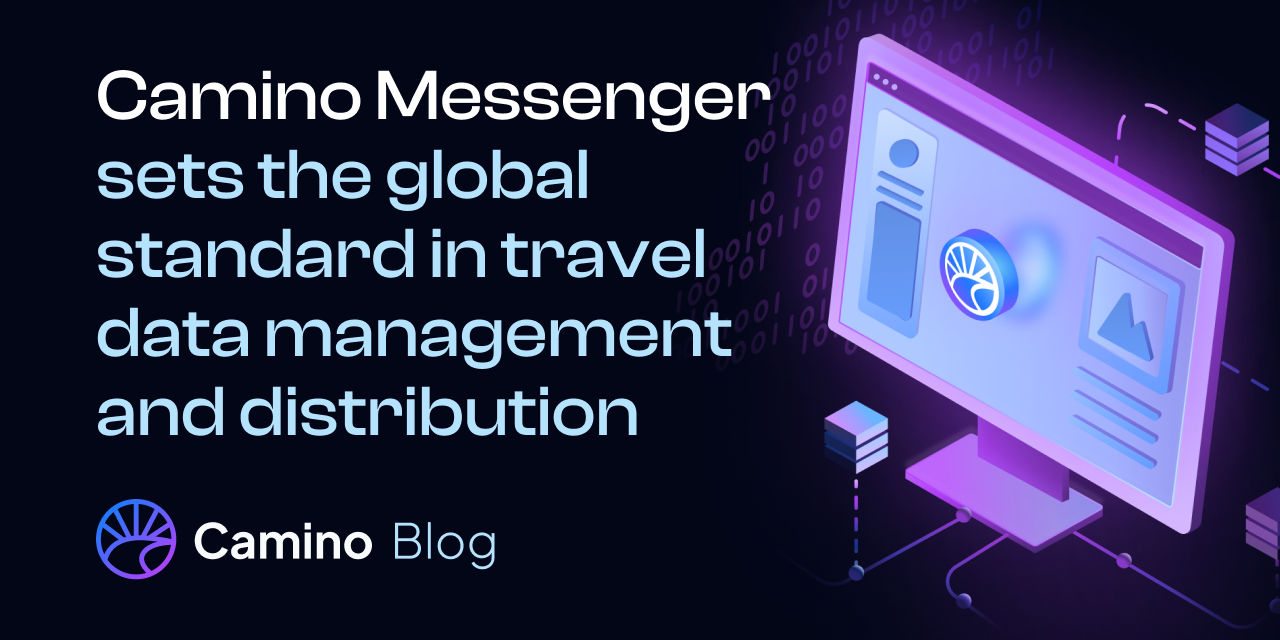
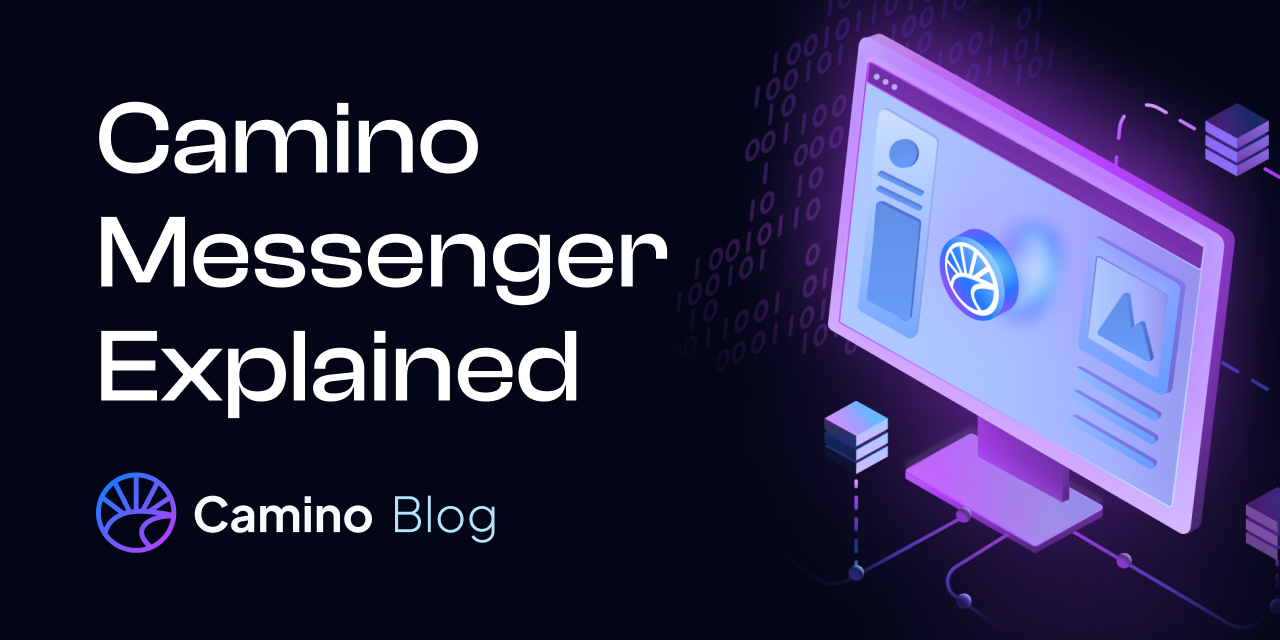
Update for messenger blogpost

Changed region(s): [[0.0625, 0.0938, 0.625, 0.6875], [0.0625, 0.7188, 0.4062, 0.9062]]

diff --git a/src/posts/camino-messenger-sets-the-global-standard-in-travel-data-management-and-distribution.html b/src/posts/camino-messenger-sets-the-global-standard-in-travel-data-management-and-distribution.html
@@ -1,6 +1,6 @@
 ---
-title:          Camino Messenger sets the global standard in travel data management and distribution
-description:    This article is tailored for travel-related companies seeking to improve their travel data management and exchange through innovative digital technologies.
+title:          Camino Messenger Explained
+description:    Setting the global standard in travel data management and distribution
 layout:         blog_layout
 permalink:      camino-messenger-sets-the-global-standard-in-travel-data-management-and-distribution/
 socialImage:    social-messenger-blogpost
